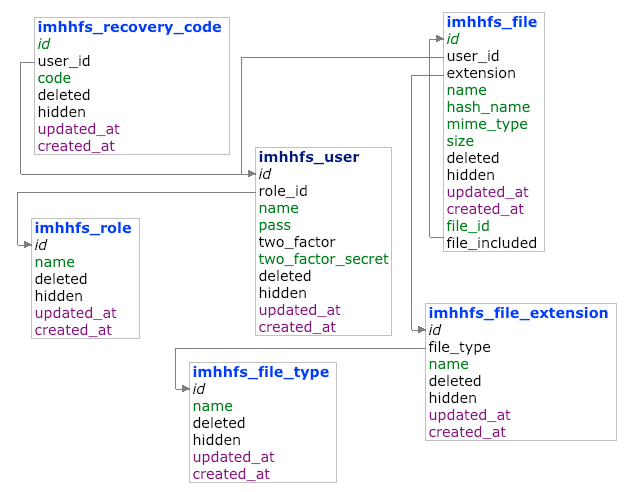
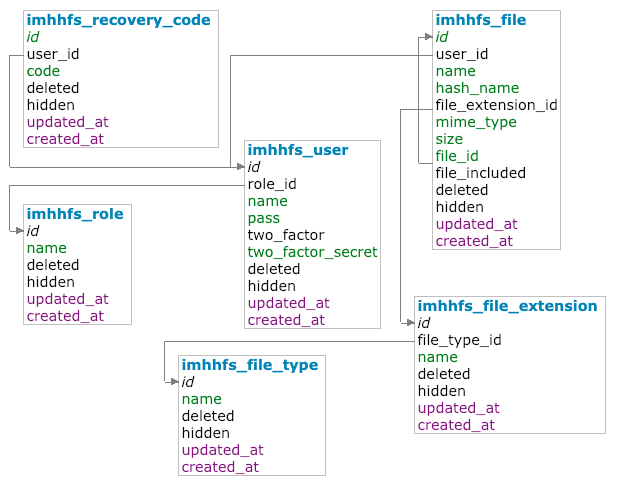
Changed imhhfs_file_extension.file_type to imhhfs_file_extension.file_type_id. Changed imhhfs_file.extension to imhhfs_file.file_extension_id. Changed user-show route to be like domain.com/{name}. Changed README.md. Fixed switch button hover.

Changed region(s): [[0.0, 0.0, 0.9854, 0.9917]]

diff --git a/gulpfiles/scss/module/_switch.scss b/gulpfiles/scss/module/_switch.scss
@@ -6,6 +6,11 @@
             & + label {
                 background-color: $success;
                 color: $white;
+            
+                &:hover {
+                    background-color: darken($success, 7.5%);
+                    color: $white;
+                }
                 
                 .fa-times {
                     display: none;
@@ -20,6 +25,11 @@
         & + label {
             background-color: $warning;
             color: $black;
+            
+            &:hover {
+                background-color: darken($warning, 7.5%);
+                color: $black;
+            }
             
             .fa-check {
                 display: none;

diff --git a/gulpfiles/scss/lib/bootstrap.scss b/gulpfiles/scss/lib/bootstrap.scss
@@ -40,7 +40,7 @@
 //@import '../../../node_modules/bootstrap/scss/utilities/clearfix';
 //@import '../../../node_modules/bootstrap/scss/utilities/display';
 @import '../../../node_modules/bootstrap/scss/utilities/embed';
-//@import '../../../node_modules/bootstrap/scss/utilities/flex';
+@import '../../../node_modules/bootstrap/scss/utilities/flex';
 //@import '../../../node_modules/bootstrap/scss/utilities/float';
 //@import '../../../node_modules/bootstrap/scss/utilities/overflow';
 //@import '../../../node_modules/bootstrap/scss/utilities/position';

diff --git a/src/Composer/Setup.php b/src/Composer/Setup.php
@@ -167,7 +167,7 @@ class Setup {
             echo self::getColoredString('2: ', 'yellow') . self::getColoredString("domain / subdomain for each translation", 'green');
             echo "\n";
             // \App\Utility\LanguageUtility::LOCALE_SESSION | \App\Utility\LanguageUtility::DOMAIN_DISABLED
-            echo self::getColoredString('3: ', 'yellow') . self::getColoredString("one domain for all translations like youtube.com", 'green');
+            echo self::getColoredString('3: ', 'yellow') . self::getColoredString("one domain for all translations like youtube.com (recommended)", 'green');
             $strHandle = fopen("php://stdin", "r");
             echo "\n";
 

diff --git a/config/additional-settings.dist.php b/config/additional-settings.dist.php
@@ -11,6 +11,7 @@ return [
                 'port'     => isset($_ENV['APP_DB_PORT']) ? $_ENV['APP_DB_PORT'] : 3306,
                 'user'     => isset($_ENV['APP_DB_USER']) ? $_ENV['APP_DB_USER'] : '',
                 'password' => isset($_ENV['APP_DB_PASSWORD']) ? $_ENV['APP_DB_PASSWORD'] : '',
+                //'unix_socket' => '/Applications/MAMP/tmp/mysql/mysql.sock',
             ],
         ],
 

diff --git a/src/Entity/FileExtension.php b/src/Entity/FileExtension.php
@@ -17,7 +17,7 @@ class FileExtension extends \App\MappedSuperclass\Base {
     
     /**
      * @ORM\ManyToOne(targetEntity="FileType", inversedBy="fileExtensions")
-     * @ORM\JoinColumn(name="file_type", referencedColumnName="id")
+     * @ORM\JoinColumn(name="file_type_id", referencedColumnName="id")
      */
     private $fileType;
     

diff --git a/src/Entity/File.php b/src/Entity/File.php
@@ -34,7 +34,7 @@ class File extends \App\MappedSuperclass\Base {
     
     /**
      * @ORM\ManyToOne(targetEntity="FileExtension", inversedBy="files")
-     * @ORM\JoinColumn(name="extension", referencedColumnName="id")
+     * @ORM\JoinColumn(name="file_extension_id", referencedColumnName="id")
      */
     private $extension;
     

diff --git a/config/settings.php b/config/settings.php
@@ -72,6 +72,7 @@ return [
                 'user'     => '',
                 'password' => '',
                 'charset'  => 'utf8',
+                //'unix_socket'   => '/Applications/MAMP/tmp/mysql/mysql.sock',
             ],
         ],
         

diff --git a/CHANGELOG.md b/CHANGELOG.md
@@ -26,6 +26,7 @@ and this project adheres to [Semantic Versioning](https://semver.org/spec/v2.0.0
 ### Changed
 - `.gitignore`
 - `deploy.sh`
+- `README.md`
 - [Setup.php](https://github.com/InsanityMeetsHH/file-sharing/blob/master/src/Composer/Setup.php)
 - [`additional-settings.dist.php`](https://github.com/InsanityMeetsHH/file-sharing/blob/master/config/additional-settings.dist.php)
 - [`settings.php`](https://github.com/InsanityMeetsHH/file-sharing/blob/master/config/settings.php)
@@ -38,14 +39,17 @@ and this project adheres to [Semantic Versioning](https://semver.org/spec/v2.0.0
 - `locale/en-US.php`
 - `locale/de-DE.php`
 - DataTable init call
+- `imhhfs_file_extension.file_type` to `imhhfs_file_extension.file_type_id`
+- `imhhfs_file.extension` to `imhhfs_file.file_extension_id`
+- `user-show` route to be like domain.com/{name}
 
 ### Fixed
 - `langswitch.js`
+- switch button hover
 
 ### Removed
-- `/profile/[{name}/]` route and replaced by `/{name}/`
-- `/user/create/` route and replaced by `/register/`
-- `/user/save/` route and replaced by `/complete-register/`
+- `user-create` route and replaced by `user-register`
+- `user-save` route and replaced by `user-register-save`
 
 ## [2.3.1] - 2018-10-22
 ### Fixed

diff --git a/README.md b/README.md
@@ -24,7 +24,7 @@ $ gulp build
 * Get skeleton via `$ git clone` or zip download
 * Open a command prompt on your OS (if not already open) and navigate to the project folder
 * `$ npm i`
-* `$ gulp prod`
+* `$ gulp build`
 * `$ docker pull composer`
 * `$ docker run --rm --env docker=true --interactive --tty --volume $PWD:/app composer update`
 * `$ docker-compose build`
@@ -36,3 +36,6 @@ $ gulp build
 * If you want to remove a volume `$ docker volume rm [volume-name]` e.g. `$ docker volume rm imhh-fs_db_data` (first remove matching container)
 * If you want to remove all container `$ docker rm $(docker ps -a -q) -f`
 * If you want to remove all volumes `$ docker volume prune` (first remove all container)
+
+## Sources
+* [DataTables Translations](https://datatables.net/plug-ins/i18n/)
